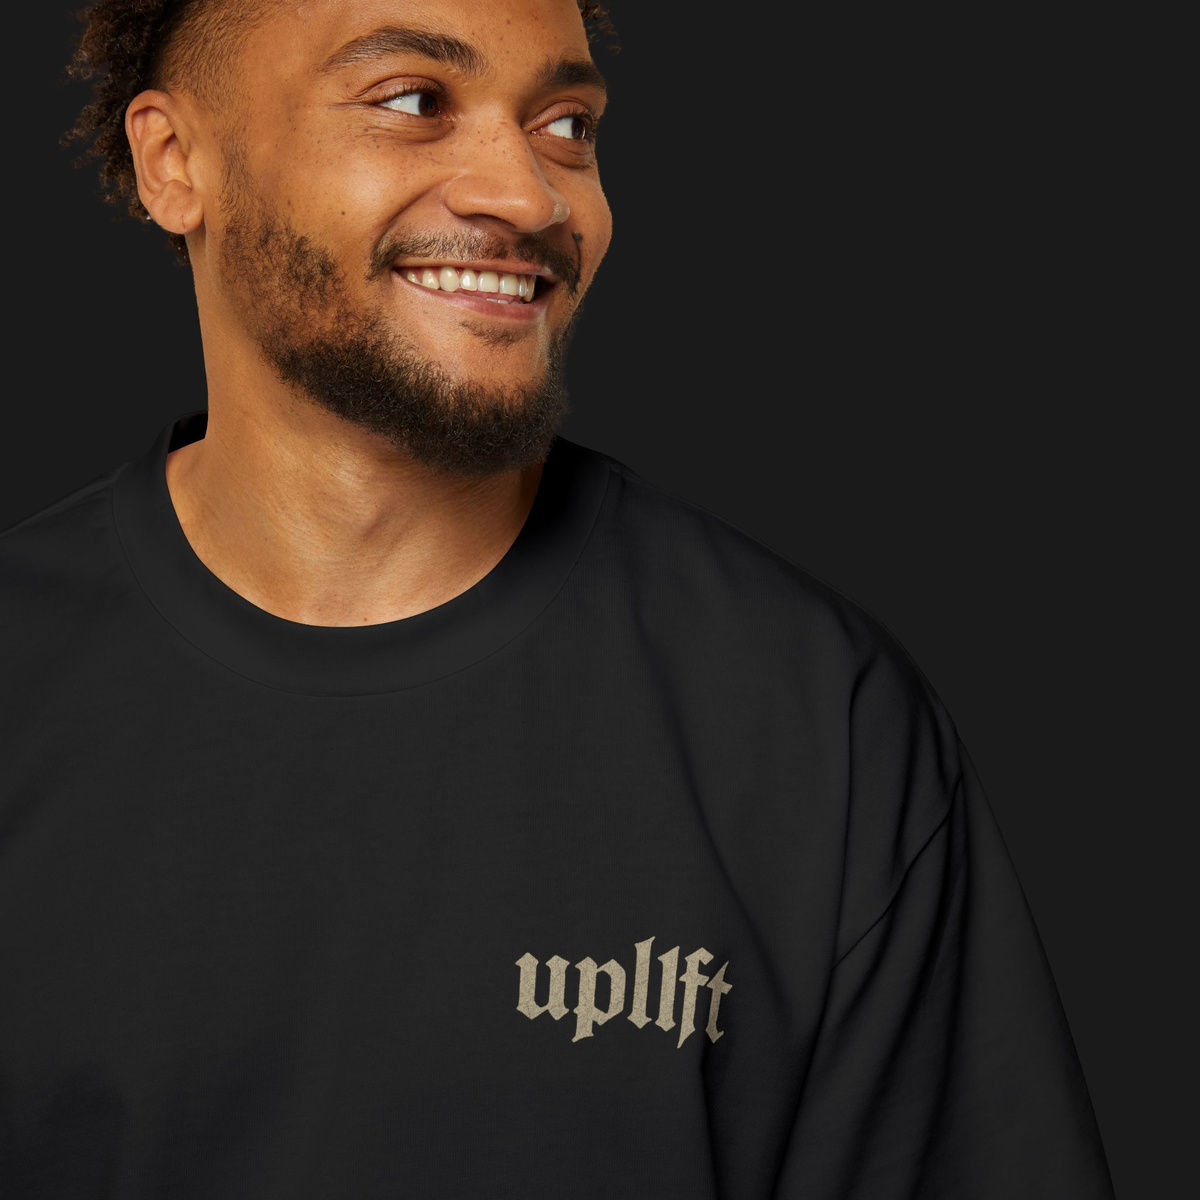
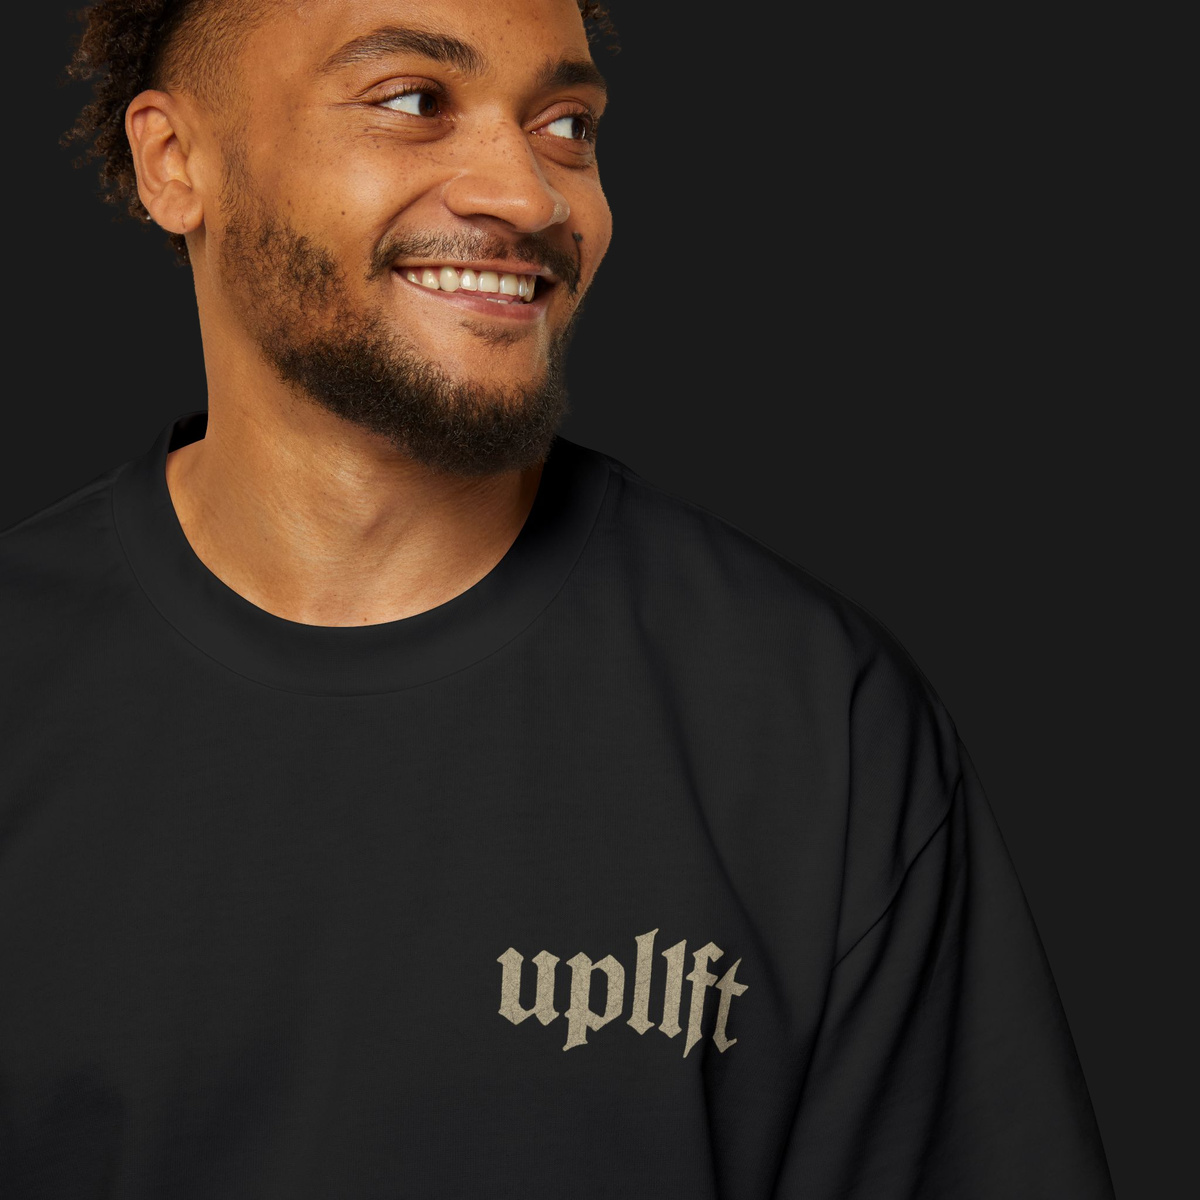
Resize prints on HIS PAIN OUR GAIN and LIVE BY FAITH
The Printify products changed, so the photos are remade from the new mockups:
- HIS PAIN OUR GAIN: back print at full size again (12 in across), still on the
  upper back; chest wordmark 3.9 in wide, the same as IT IS WRITTEN
- LIVE BY FAITH: cross 5 in wide (was 4), top edge unchanged

Photo version 3, so browsers fetch the new files at once.

Changed region(s): [[0.4008, 0.7708, 0.6167, 0.8942]]

diff --git a/lib/data/products.ts b/lib/data/products.ts
@@ -11,26 +11,26 @@ export const products: Product[] = [
     story:
       '"It is written: Man shall not live on bread alone, but on every word that comes from the mouth of God." - Matthew 4:4. When temptation came, Jesus answered with Scripture. The Word is your weapon. Carry it boldly.',
     images: [
-      '/images/products/it-is-written/pine-back.jpg?v=2',
-      '/images/products/it-is-written/pine-front.jpg?v=2',
-      '/images/products/it-is-written/pine-person.jpg?v=2',
-      '/images/products/it-is-written/pine-pback.jpg?v=2',
-      '/images/products/it-is-written/pine-pclose.jpg?v=2',
+      '/images/products/it-is-written/pine-back.jpg?v=3',
+      '/images/products/it-is-written/pine-front.jpg?v=3',
+      '/images/products/it-is-written/pine-person.jpg?v=3',
+      '/images/products/it-is-written/pine-pback.jpg?v=3',
+      '/images/products/it-is-written/pine-pclose.jpg?v=3',
     ],
     colorImages: {
       'Pine Green': [
-        '/images/products/it-is-written/pine-back.jpg?v=2',
-        '/images/products/it-is-written/pine-front.jpg?v=2',
-        '/images/products/it-is-written/pine-person.jpg?v=2',
-        '/images/products/it-is-written/pine-pback.jpg?v=2',
-        '/images/products/it-is-written/pine-pclose.jpg?v=2',
+        '/images/products/it-is-written/pine-back.jpg?v=3',
+        '/images/products/it-is-written/pine-front.jpg?v=3',
+        '/images/products/it-is-written/pine-person.jpg?v=3',
+        '/images/products/it-is-written/pine-pback.jpg?v=3',
+        '/images/products/it-is-written/pine-pclose.jpg?v=3',
       ],
       Black: [
-        '/images/products/it-is-written/black-back.jpg?v=2',
-        '/images/products/it-is-written/black-front.jpg?v=2',
-        '/images/products/it-is-written/black-person.jpg?v=2',
-        '/images/products/it-is-written/black-pback.jpg?v=2',
-        '/images/products/it-is-written/black-pclose.jpg?v=2',
+        '/images/products/it-is-written/black-back.jpg?v=3',
+        '/images/products/it-is-written/black-front.jpg?v=3',
+        '/images/products/it-is-written/black-person.jpg?v=3',
+        '/images/products/it-is-written/black-pback.jpg?v=3',
+        '/images/products/it-is-written/black-pclose.jpg?v=3',
       ],
     },
     category: 'tees',
@@ -49,26 +49,26 @@ export const products: Product[] = [
     description: 'Heavyweight oversized tee on AS Colour 5080. Crossed-out DISTRACTION on the front, COMFORT KILLS POTENTIAL across the back. Comfort is the enemy of greatness.',
     story: '"No discipline seems pleasant at the time, but painful. Later on, however, it produces a harvest of righteousness and peace for those who have been trained by it." - Hebrews 12:11. Comfort is the quiet killer of purpose. Step out of ease and into your calling.',
     images: [
-      '/images/products/comfort-kills-potential/pine-back.jpg?v=2',
-      '/images/products/comfort-kills-potential/pine-front.jpg?v=2',
-      '/images/products/comfort-kills-potential/pine-person.jpg?v=2',
-      '/images/products/comfort-kills-potential/pine-pback.jpg?v=2',
-      '/images/products/comfort-kills-potential/pine-pclose.jpg?v=2',
+      '/images/products/comfort-kills-potential/pine-back.jpg?v=3',
+      '/images/products/comfort-kills-potential/pine-front.jpg?v=3',
+      '/images/products/comfort-kills-potential/pine-person.jpg?v=3',
+      '/images/products/comfort-kills-potential/pine-pback.jpg?v=3',
+      '/images/products/comfort-kills-potential/pine-pclose.jpg?v=3',
     ],
     colorImages: {
       'Pine Green': [
-        '/images/products/comfort-kills-potential/pine-back.jpg?v=2',
-        '/images/products/comfort-kills-potential/pine-front.jpg?v=2',
-        '/images/products/comfort-kills-potential/pine-person.jpg?v=2',
-        '/images/products/comfort-kills-potential/pine-pback.jpg?v=2',
-        '/images/products/comfort-kills-potential/pine-pclose.jpg?v=2',
+        '/images/products/comfort-kills-potential/pine-back.jpg?v=3',
+        '/images/products/comfort-kills-potential/pine-front.jpg?v=3',
+        '/images/products/comfort-kills-potential/pine-person.jpg?v=3',
+        '/images/products/comfort-kills-potential/pine-pback.jpg?v=3',
+        '/images/products/comfort-kills-potential/pine-pclose.jpg?v=3',
       ],
       Black: [
-        '/images/products/comfort-kills-potential/black-back.jpg?v=2',
-        '/images/products/comfort-kills-potential/black-front.jpg?v=2',
-        '/images/products/comfort-kills-potential/black-person.jpg?v=2',
-        '/images/products/comfort-kills-potential/black-pback.jpg?v=2',
-        '/images/products/comfort-kills-potential/black-pclose.jpg?v=2',
+        '/images/products/comfort-kills-potential/black-back.jpg?v=3',
+        '/images/products/comfort-kills-potential/black-front.jpg?v=3',
+        '/images/products/comfort-kills-potential/black-person.jpg?v=3',
+        '/images/products/comfort-kills-potential/black-pback.jpg?v=3',
+        '/images/products/comfort-kills-potential/black-pclose.jpg?v=3',
       ],
     },
     category: 'tees',
@@ -87,26 +87,26 @@ export const products: Product[] = [
     description: 'Heavyweight oversized tee on AS Colour 5080. UPL1FT mark on the left chest, crown of thorns across the upper back. A tribute to the sacrifice that set us free.',
     story: '"But he was pierced for our transgressions, he was crushed for our iniquities; the punishment that brought us peace was on him, and by his wounds we are healed." - Isaiah 53:5. His suffering was not in vain. Every wound carried purpose. Wear this truth.',
     images: [
-      '/images/products/his-pain-our-gain/pine-back.jpg?v=2',
-      '/images/products/his-pain-our-gain/pine-front.jpg?v=2',
-      '/images/products/his-pain-our-gain/pine-person.jpg?v=2',
-      '/images/products/his-pain-our-gain/pine-pback.jpg?v=2',
-      '/images/products/his-pain-our-gain/pine-pclose.jpg?v=2',
+      '/images/products/his-pain-our-gain/pine-back.jpg?v=3',
+      '/images/products/his-pain-our-gain/pine-front.jpg?v=3',
+      '/images/products/his-pain-our-gain/pine-person.jpg?v=3',
+      '/images/products/his-pain-our-gain/pine-pback.jpg?v=3',
+      '/images/products/his-pain-our-gain/pine-pclose.jpg?v=3',
     ],
     colorImages: {
       'Pine Green': [
-        '/images/products/his-pain-our-gain/pine-back.jpg?v=2',
-        '/images/products/his-pain-our-gain/pine-front.jpg?v=2',
-        '/images/products/his-pain-our-gain/pine-person.jpg?v=2',
-        '/images/products/his-pain-our-gain/pine-pback.jpg?v=2',
-        '/images/products/his-pain-our-gain/pine-pclose.jpg?v=2',
+        '/images/products/his-pain-our-gain/pine-back.jpg?v=3',
+        '/images/products/his-pain-our-gain/pine-front.jpg?v=3',
+        '/images/products/his-pain-our-gain/pine-person.jpg?v=3',
+        '/images/products/his-pain-our-gain/pine-pback.jpg?v=3',
+        '/images/products/his-pain-our-gain/pine-pclose.jpg?v=3',
       ],
       Black: [
-        '/images/products/his-pain-our-gain/black-back.jpg?v=2',
-        '/images/products/his-pain-our-gain/black-front.jpg?v=2',
-        '/images/products/his-pain-our-gain/black-person.jpg?v=2',
-        '/images/products/his-pain-our-gain/black-pback.jpg?v=2',
-        '/images/products/his-pain-our-gain/black-pclose.jpg?v=2',
+        '/images/products/his-pain-our-gain/black-back.jpg?v=3',
+        '/images/products/his-pain-our-gain/black-front.jpg?v=3',
+        '/images/products/his-pain-our-gain/black-person.jpg?v=3',
+        '/images/products/his-pain-our-gain/black-pback.jpg?v=3',
+        '/images/products/his-pain-our-gain/black-pclose.jpg?v=3',
       ],
     },
     category: 'tees',
@@ -125,26 +125,26 @@ export const products: Product[] = [
     description: 'Heavyweight oversized tee on AS Colour 5080 with a front cross print. Walk by faith, not by what you see.',
     story: '"For we walk by faith, not by sight." - 2 Corinthians 5:7. The world shows you one thing. Faith reveals another. This tee is a declaration—you move by conviction, not by circumstance.',
     images: [
-      '/images/products/live-by-faith/pine-front.jpg?v=2',
-      '/images/products/live-by-faith/pine-person.jpg?v=2',
-      '/images/products/live-by-faith/pine-pclose.jpg?v=2',
-      '/images/products/live-by-faith/pine-back.jpg?v=2',
-      '/images/products/live-by-faith/pine-pback.jpg?v=2',
+      '/images/products/live-by-faith/pine-front.jpg?v=3',
+      '/images/products/live-by-faith/pine-person.jpg?v=3',
+      '/images/products/live-by-faith/pine-pclose.jpg?v=3',
+      '/images/products/live-by-faith/pine-back.jpg?v=3',
+      '/images/products/live-by-faith/pine-pback.jpg?v=3',
     ],
     colorImages: {
       'Pine Green': [
-        '/images/products/live-by-faith/pine-front.jpg?v=2',
-        '/images/products/live-by-faith/pine-person.jpg?v=2',
-        '/images/products/live-by-faith/pine-pclose.jpg?v=2',
-        '/images/products/live-by-faith/pine-back.jpg?v=2',
-        '/images/products/live-by-faith/pine-pback.jpg?v=2',
+        '/images/products/live-by-faith/pine-front.jpg?v=3',
+        '/images/products/live-by-faith/pine-person.jpg?v=3',
+        '/images/products/live-by-faith/pine-pclose.jpg?v=3',
+        '/images/products/live-by-faith/pine-back.jpg?v=3',
+        '/images/products/live-by-faith/pine-pback.jpg?v=3',
       ],
       Black: [
-        '/images/products/live-by-faith/black-front.jpg?v=2',
-        '/images/products/live-by-faith/black-person.jpg?v=2',
-        '/images/products/live-by-faith/black-pclose.jpg?v=2',
-        '/images/products/live-by-faith/black-back.jpg?v=2',
-        '/images/products/live-by-faith/black-pback.jpg?v=2',
+        '/images/products/live-by-faith/black-front.jpg?v=3',
+        '/images/products/live-by-faith/black-person.jpg?v=3',
+        '/images/products/live-by-faith/black-pclose.jpg?v=3',
+        '/images/products/live-by-faith/black-back.jpg?v=3',
+        '/images/products/live-by-faith/black-pback.jpg?v=3',
       ],
     },
     category: 'tees',
@@ -163,7 +163,7 @@ export const collections: any[] = [
     name: 'Tees',
     slug: 'tees',
     description: 'Heavyweight oversized tees with faith-forward graphics. Premium DTG printing on AS Colour 5080.',
-    image: '/images/products/it-is-written/pine-back.jpg?v=2',
+    image: '/images/products/it-is-written/pine-back.jpg?v=3',
   },
 ];
 

diff --git a/functions/api/_catalog.ts b/functions/api/_catalog.ts
@@ -22,7 +22,7 @@ const COLORS = ["Pine Green", "Black"];
 // Browsers keep product photos for hours. The version in the address makes them fetch
 // new photos at once: raise it whenever the files under public/images/products change,
 // here and in lib/data/products.ts (tests/catalog.test.mjs fails when they differ).
-export const PHOTO_VERSION = "2";
+export const PHOTO_VERSION = "3";
 
 function photo(file: string): string {
   return `/images/products/${file}?v=${PHOTO_VERSION}`;
